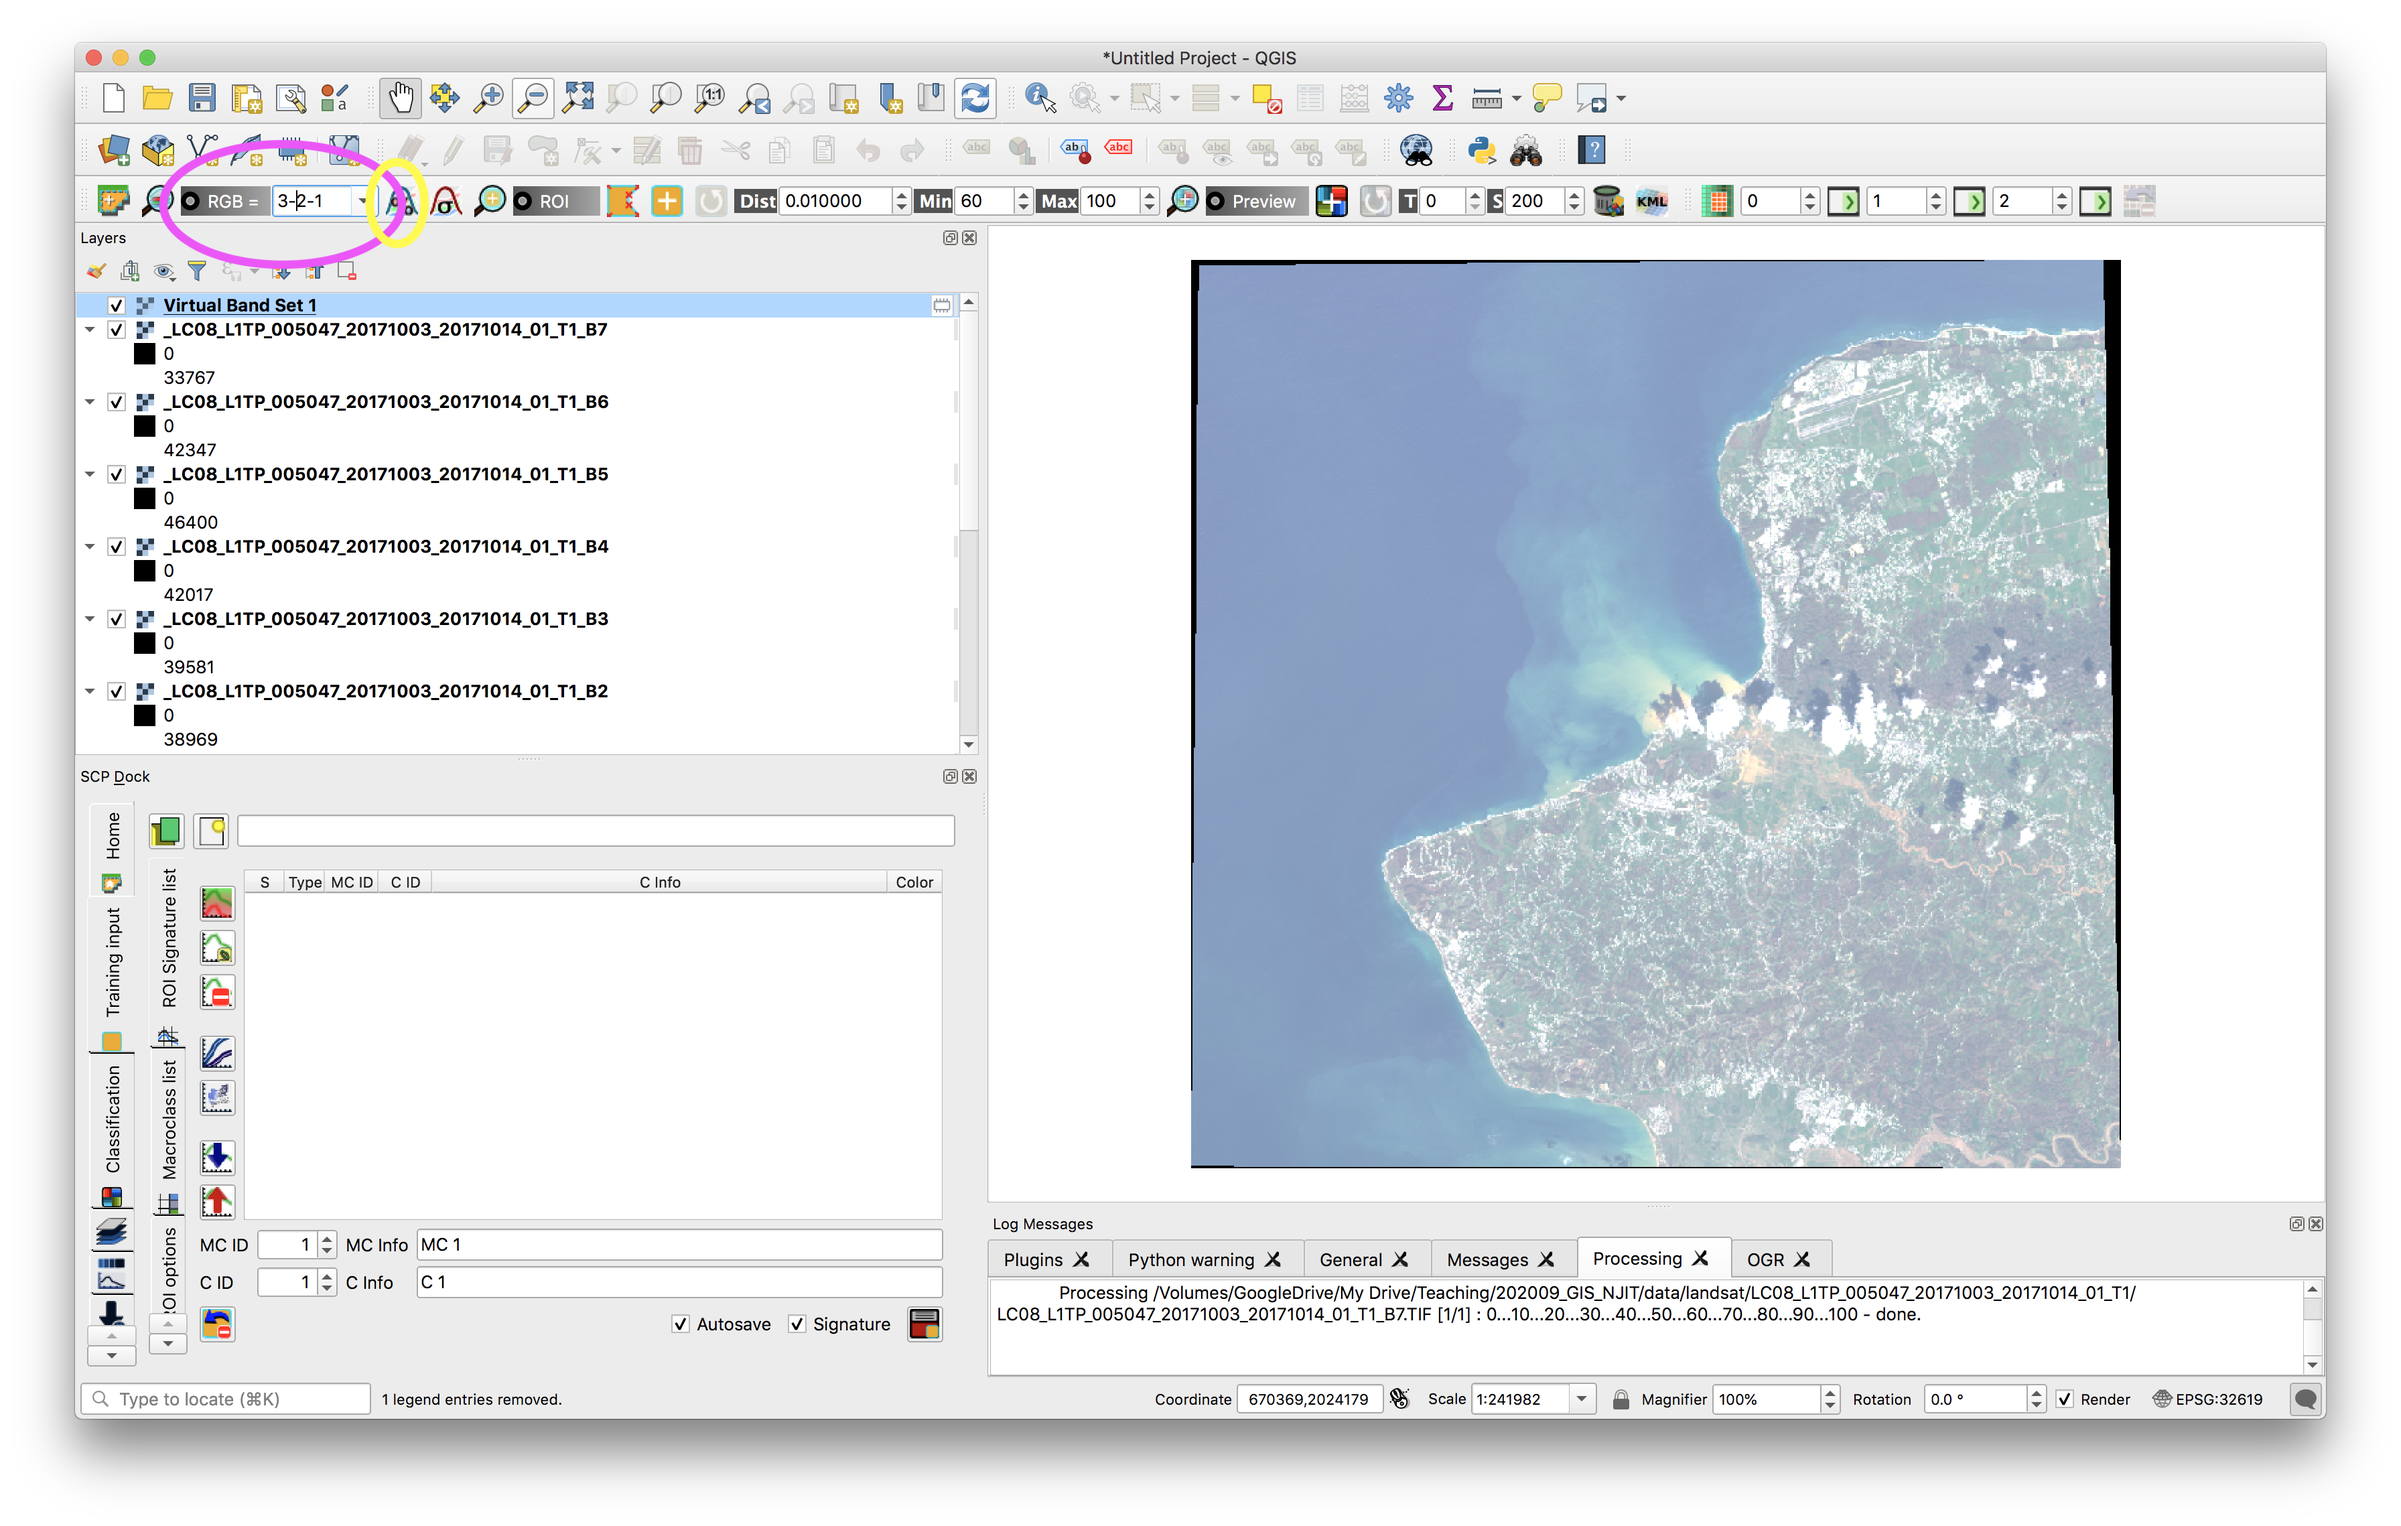
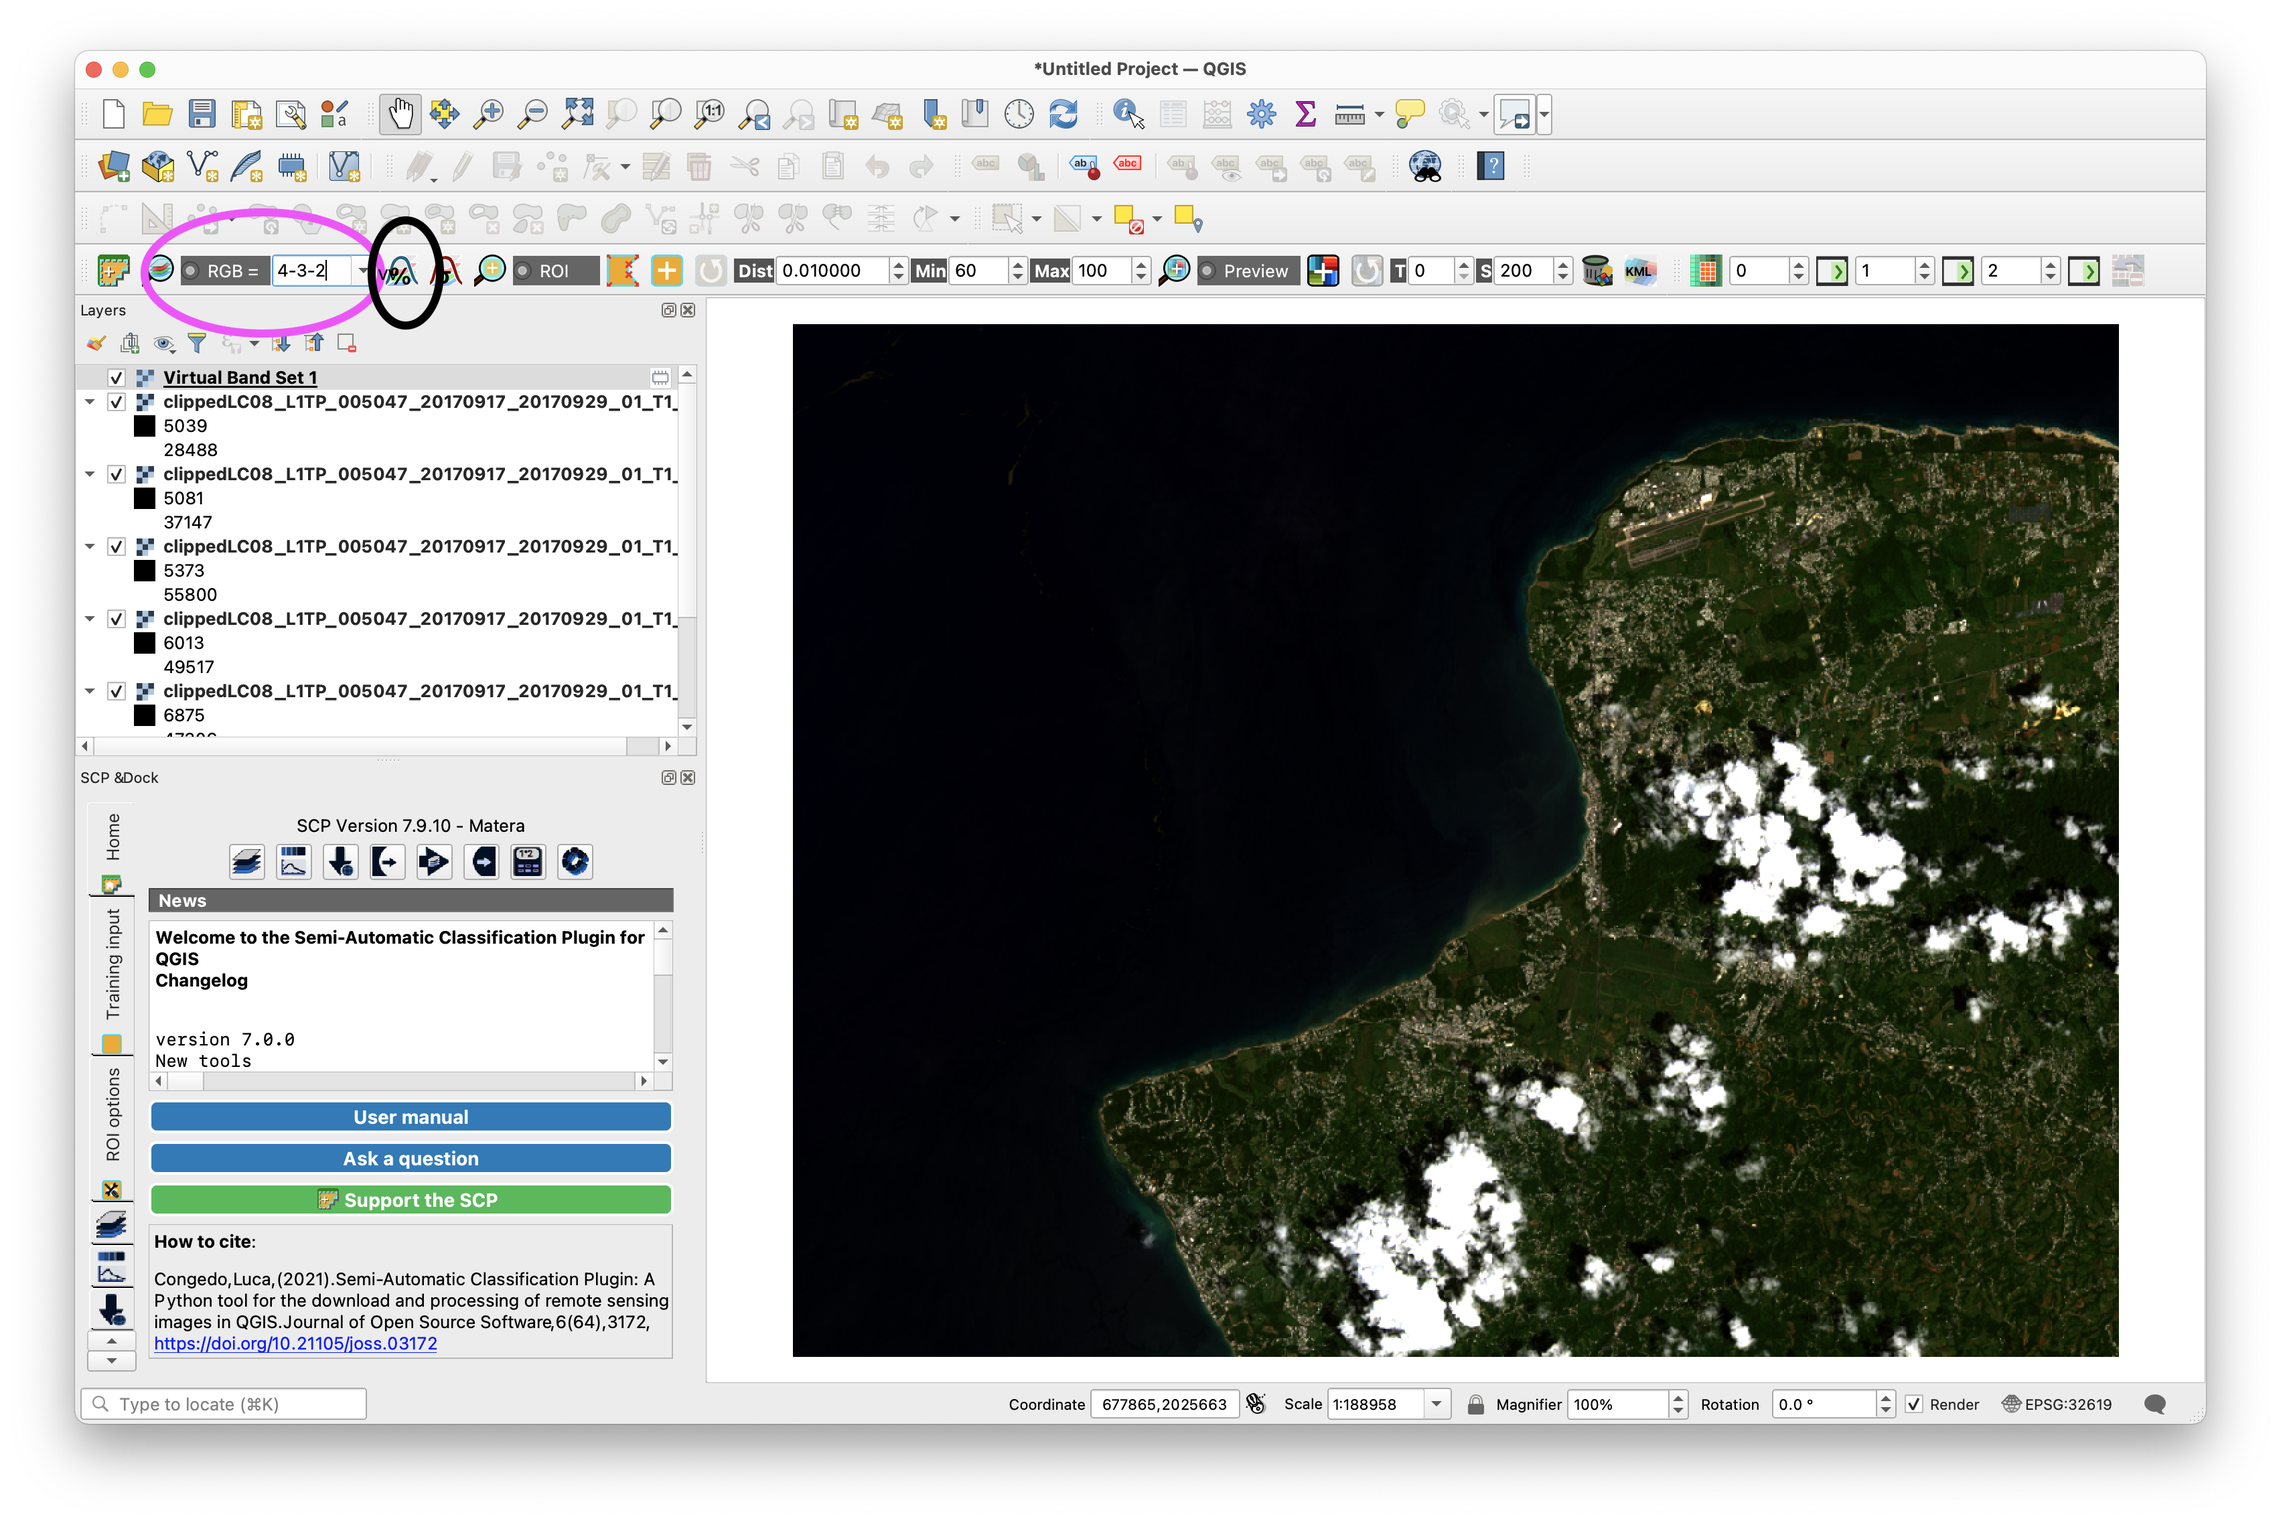
tutorial 5a landsat update

diff --git a/tutorials/tutorial05.md b/tutorials/tutorial05.md
@@ -49,7 +49,9 @@ This exercise will walk through how to create false color composites using multi
 
 Landsat satellite data is freely available and can be downloaded via a number of different websites. We will be using the USGS website: [EarthExplorer](https://earthexplorer.usgs.gov/)
 
-These are instructions for how to download Landsat satellite imagery via USGS for future reference, and for use in the assignment. For this tutorial landsat scenes were already provided to you, so scroll down to the next section.  
+These are instructions for how to download Landsat satellite imagery via USGS for future reference, and for use in the assignment. These instructions are provided to assist you in obtaining your own satellite imagery for the assignment. 
+
+But first complete this tutorial to get familiar with the steps involved -- for the tutorial landsat scenes have been provided to you, so scroll down to the next section **Creating False Color Composites**.  
 
 1. Select `Register` and then follow steps to **Register for an EarthExplorer account**
 2. Use the map to zoom in to your area of interest 
@@ -95,43 +97,47 @@ A new toolbar and dock should have been added to your QGIS window. The are highl
 
 ### Load Landsat data and create a "Band Set" 
 
-Open the Semi Automatic Classification Plugin menu by clicking the icon circled in yellow above. 
+Download the `landsat_corrected` folder from the [class Google Drive folder.](https://drive.google.com/open?id=1fUm2aAGJeh5UX54u6rBBY8wcWjYBCLdH)  
+
+Save the folder within the `Shared_data`>`raster` directory you have for this class.  
+
+In QGIS launch a new project and then select `Layer`>`add layer`>`Add raster layer`. Navigate to the `Shared_data`>`raster`>`landsat_corrected` folder in the source menu. Then choose the folder containing the September 17 Landsat image bundle `LC08_L1TP_005047_20170917_20170929_01_T1`. Select bands 1-7 in the folder (all of the files with a .tif ending) And click Open. Then click Add. Then Close the `Add raster layer` menu. You should now have 7 landsat bands in your layers panel.  
+
+Open the Semi Automatic Classification Plugin menu by clicking the icon circled in yellow above.  
+
+Load the landsat bands you have added to your project by clicking the `refresh list` button circled in magenta below. Then select all of the bands listed in the Single band list and click the `add bands to Band list` button circled below in yellow. The Semi Automatic Classification Plugin should now look like the image below, with the seven landsat bands we will use added to Band set 1.  
+
 ![Preprocessing]
 
-Click on the `Open a file` button (circled above) and navigate to the directory containing the Landsat bands you want to work with for this example it is `Shared_data`>`raster`>`landsat`. And then first choose the folder containing the October 3 Landsat image bundle `LC08_L1TP_005047_20171003_20171014_01_T1`).
+Make sure to select `Landsat 8 OLI [bands 1,2,3,4,5,6,7]` as the Wavelength quick settings and make sure that the wavelength unit matches what is listed above.  
 
-Select bands 2-7 in the folder (all of the files with a .tif ending) And click Open.  
-
-You should just have bands 2, 3, 4, 5, 6, 7 in this list. Make sure you have no other bands.
-
-Select `Landsat 8` for the Quick Wavelength settings. This automatically loads in information about the wavelengths of electromagnetic spectrum captured by each landsat band.
-
-Your dialog box options should look like this:
-
-![Bandlist]
+This automatically loads in information about the wavelengths of electromagnetic spectrum captured by each landsat band.  
 
 Close the SCP menu. 
 
-Then locate the `RGB` option in the SCP Working toolbar. 
+Then locate the `RGB` option in the SCP Working toolbar.  
 ![RGB]
 
-This tool tells the program which band it should map to the red, green, or blue band of a standard RBG image. Setting band 3 and Red, band 2, as Blue, and band 1 as Green will show a `natural color` image whose colors are similar to what we are familiar with. This combination is similar to what we see with the naked eye because it uses the bands that capture electromagnetic wavelengths in the visible light spectrum.
+This tool tells the program which band it should map to the red, green, or blue band of a standard RBG image. Setting band 4 and Red, band 3, as Green, and band 2 as Red will show a `natural color` image whose colors are similar to what we are familiar with. This combination is similar to what we see with the naked eye because it uses the bands that capture electromagnetic wavelengths in the visible light spectrum. In other words for the Landsat 8 Satellite bands 4, 3, and 2 capture the wavelengths on the electromagetic spectrum that produce what our eyes see as red, green, and blue light  (see [this explanation](https://www.usgs.gov/faqs/what-are-best-landsat-spectral-bands-use-my-research?qt-news_science_products=0#qt-news_science_products) of the wavelengths of electromagetic radiaion detected by each landsat band). 
 
-Note: to make the image appear more saturated zoom in to a bright-ish area of the image and then click the `Local cumulative cut stretch` button (circled in yellow above)
+Note: to make the image appear more saturated zoom in to a bright-ish area of the image and then click the `Local cumulative cut stretch` button (circled in black above)
 
-Further information about band combinations and the kinds of phenomena they make visible can be found [here](/methods-in-spatial-research-fa2021/tutorials/assets/resources/LandsatBandInformation_Berkeley.pdf). Take a look through this document and try out combinations that are interesting to you.
+Further information about band combinations and the kinds of phenomena they make visible can be found [in this overview guide from the USGS about the different features of each band](https://www.usgs.gov/faqs/what-are-best-landsat-spectral-bands-use-my-research?qt-news_science_products=0#qt-news_science_products) and [this guide](https://www.usgs.gov/faqs/what-are-band-designations-landsat-satellites?qt-news_science_products=0#qt-news_science_products) to the different bands in each generation of Landsat. This guide provides an overview of [different common band combinations](https://gisgeography.com/landsat-8-bands-combinations/)Take a look through these resources and test out combinations that are interesting to you.
 
-A color composite using `3-2-1` for a 'natural color' image:  
+A color composite using `4-3-2` for a 'natural color' image:  
 
 ![natural]
 
-The combination of bands `4-5-3` is particularly well suited for looking at land/water boundaries as well as levels of water saturation.
 
-![435]
-
-Or to view a 'near infrared' image set the RGB band values to `4-3-2`. This type of 'false color composite' image is similar to infrared aerial photography and highlights vegetation in shades of red. Try these and others.
+Or to view a 'near infrared' image set the RGB band values to `5-4-3`. This type of 'false color composite' image is similar to infrared aerial photography and highlights vegetation in shades of red. Try these and others.
 
 ![infrared]
+
+
+The combination of bands `6-4-2` is particularly well suited for looking at agriculture -- vegetation appears as shades of green and urban areas or bare soil appear as brown/magenta.
+
+![agriculture]
+
 
 ### Export false color composites 
 To export a false color composite as a GeoTiff image (that freezes the given false color composite you've chosen) right click on the `virtual band set` in the layers menu. Select `save as` and choose `rendered image` as your output mode, and select a location and file name to save the image. This false color composite is now saved, you no longer have access to the raw data of each of the Landsat bands that originally comprised it but you can work with it as a base map or for other uses or bring it into a different program.
@@ -164,6 +170,6 @@ Tutorial by Dare Brawley, Spring 2021
 
 [RGB]: /methods-in-spatial-research-fa2021/tutorials/assets/tutorial05/satellite05.png
 [natural]: /methods-in-spatial-research-fa2021/tutorials/assets/tutorial05/satellite09.png
-[435]: /methods-in-spatial-research-fa2021/tutorials/assets/tutorial05/satellite14.png
+[agriculture]: /methods-in-spatial-research-fa2021/tutorials/assets/tutorial05/satellite14.png
 [infrared]: /methods-in-spatial-research-fa2021/tutorials/assets/tutorial05/satellite10.png
 [download]: /methods-in-spatial-research-fa2021/tutorials/assets/tutorial05/satellite003.png
